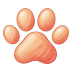
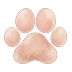
ui: 套装描述单行省略(卡紧凑)+侧栏三宠头像归一(体高统一/底钉地线)+五节图标 Meowa 低饱和重生成;VERDICT 1109

diff --git a/petpet/ui/pet_profile.py b/petpet/ui/pet_profile.py
@@ -252,6 +252,34 @@ def _outfit_preview_path(pet_id, outfit):
     return candidate if os.path.isfile(candidate) else None
 
 
+def _normalized_rail_icon(path, body_h=96, canvas=118):
+    """侧栏头像内容归一(2026-10-23 用户令「大小统一位置统一」):
+    按素材内容 bbox 裁切后体高统一 body_h、水平居中、底边钉同一地线,
+    画到 canvas² 透明画布——三宠(方狗/竖版兔)观感大小位置一致。"""
+    import numpy as np
+    from PIL import Image as _PILImage
+    try:
+        im = _PILImage.open(path).convert("RGBA")
+    except Exception:
+        return QPixmap()
+    arr = np.array(im)[:, :, 3]
+    ys, xs = np.where(arr > 40)
+    if not len(ys):
+        return QPixmap(path)
+    content = im.crop((xs.min(), ys.min(), xs.max() + 1, ys.max() + 1))
+    scale = body_h / content.height
+    content = content.resize(
+        (max(1, int(content.width * scale)), body_h), _PILImage.LANCZOS)
+    board = _PILImage.new("RGBA", (canvas, canvas), (0, 0, 0, 0))
+    board.paste(content, ((canvas - content.width) // 2,
+                          canvas - 8 - body_h), content)
+    buf = io.BytesIO()
+    board.save(buf, format="PNG")
+    pm = QPixmap()
+    pm.loadFromData(buf.getvalue())
+    return pm
+
+
 def _grayscale_pixmap(path):
     """灰阶化并保留 alpha（PIL+numpy 向量化；Format_Grayscale8 会把透明变黑）。"""
     if not path or not os.path.isfile(path):
@@ -1468,7 +1496,7 @@ class PetProfileWindow(KeepAliveTopLevelWindow):
                 )
             )
             if owned:
-                icon = QPixmap(icon_path) if icon_path else QPixmap()
+                icon = _normalized_rail_icon(icon_path) if icon_path else QPixmap()
             else:
                 icon = _grayscale_pixmap(icon_path) if icon_path else QPixmap()
             card["button"].set_pixmap(icon)
@@ -1593,7 +1621,8 @@ class PetProfileWindow(KeepAliveTopLevelWindow):
                 name_row.addWidget(badge, 0, Qt.AlignVCenter)
             name_row.addStretch(1)
             desc_label = QLabel(outfit.get("description") or "")
-            desc_label.setWordWrap(True)
+            # 2026-10-23 用户令:描述单行显示,超出省略号(不换行)
+            desc_label.setWordWrap(False)
             # 第三十二轮：文字列加宽用控件 min-width（不能给装了控件的
             # layout 做 text_host 包装——reparent 链会同步销毁按钮）。
             name_label.setMinimumWidth(round(250 * _SX * _FIT))
@@ -1631,17 +1660,7 @@ class PetProfileWindow(KeepAliveTopLevelWindow):
             text_w = max(200, card.width() - pixmap_label.width()
                          - round(60 * _SX * _FIT)
                          + round(10 / _SX))
-            lines_needed = 0
-            remaining = outfit.get("description") or ""
-            while remaining and lines_needed < 4:
-                chunk = fm.elidedText(remaining, Qt.ElideNone, text_w)
-                if not chunk:
-                    break
-                lines_needed += 1
-                remaining = remaining[len(chunk):]
-            if lines_needed > 2:
-                extra = (lines_needed - 2) * fm.lineSpacing()
-                card.setMinimumHeight(card_h + extra)
+            # 单行定稿(2026-10-23):描述不换行,不再按行数加高卡
 
             self._outfit_layout.insertWidget(
                 self._outfit_layout.count() - 1, card,

diff --git a/HANDOFF.md b/HANDOFF.md
@@ -66,6 +66,7 @@ D:\Agent_project\Petpet
 
 | 领域 | 内容 |
 |------|------|
+| **套装单行描述+侧栏头像归一+五图标重生成**（2026-10-23 追记七，待发） | 套装描述单行+省略号(删多行加高,卡紧凑);侧栏三宠头像内容归一(体高96/居中/底钉同地线 118²,_normalized_rail_icon);五节图标 Meowa 重生成(低饱和哑彩水彩提示词,棉花糖头像画风参照,用户判降饱和后处理无效)。VERDICT **1109**;余额 1097;详见 Obsidian `开发记录6-10-23 简介页五节一屏与画风节定稿`(追记七) |
 | **默认键两字+套装页动图删除**（2026-10-23 追记六，待发） | 改名默认键文案「默认『宠物名』」→「默认」两字;套装卡右侧套装小狗动图预览(_OutfitIdleLabel 130²)整段删除+行宽公式去动画框宽+清字典 idle 键,卡片布局收紧文字列放宽。VERDICT **1109**;详见 Obsidian `开发记录6-10-23 简介页五节一屏与画风节定稿`(追记六) |
 | **面板改名默认键补显+悬浮高亮**（2026-10-23 追记五，待发） | 根因=PetNameEditDialog 默认键本就有(10-15),面板 _open_name_dialog 调工厂漏传 default_name→setVisible 隐藏;修=补传 snapshot["default_name"]。对话框取消/默认/保存三键 QSS 加 :hover 变色(基础高亮,用户点名效果优先于纯缩放默认)。VERDICT **1109**;详见 Obsidian `开发记录6-10-23 简介页五节一屏与画风节定稿`(追记五) |
 | **未选中头像半透明**（2026-10-23 追记四，待发） | 用户追问「为什么没有未选中半透明」——正解=选中全彩无圈/未选中半透明 0.65(规范下限)区分,悬停/选中恢复全彩(painter.setOpacity);上轮只删圈没做透明是理解偏差。VERDICT **1109**;详见 Obsidian `开发记录6-10-23 简介页五节一屏与画风节定稿`(追记四) |
